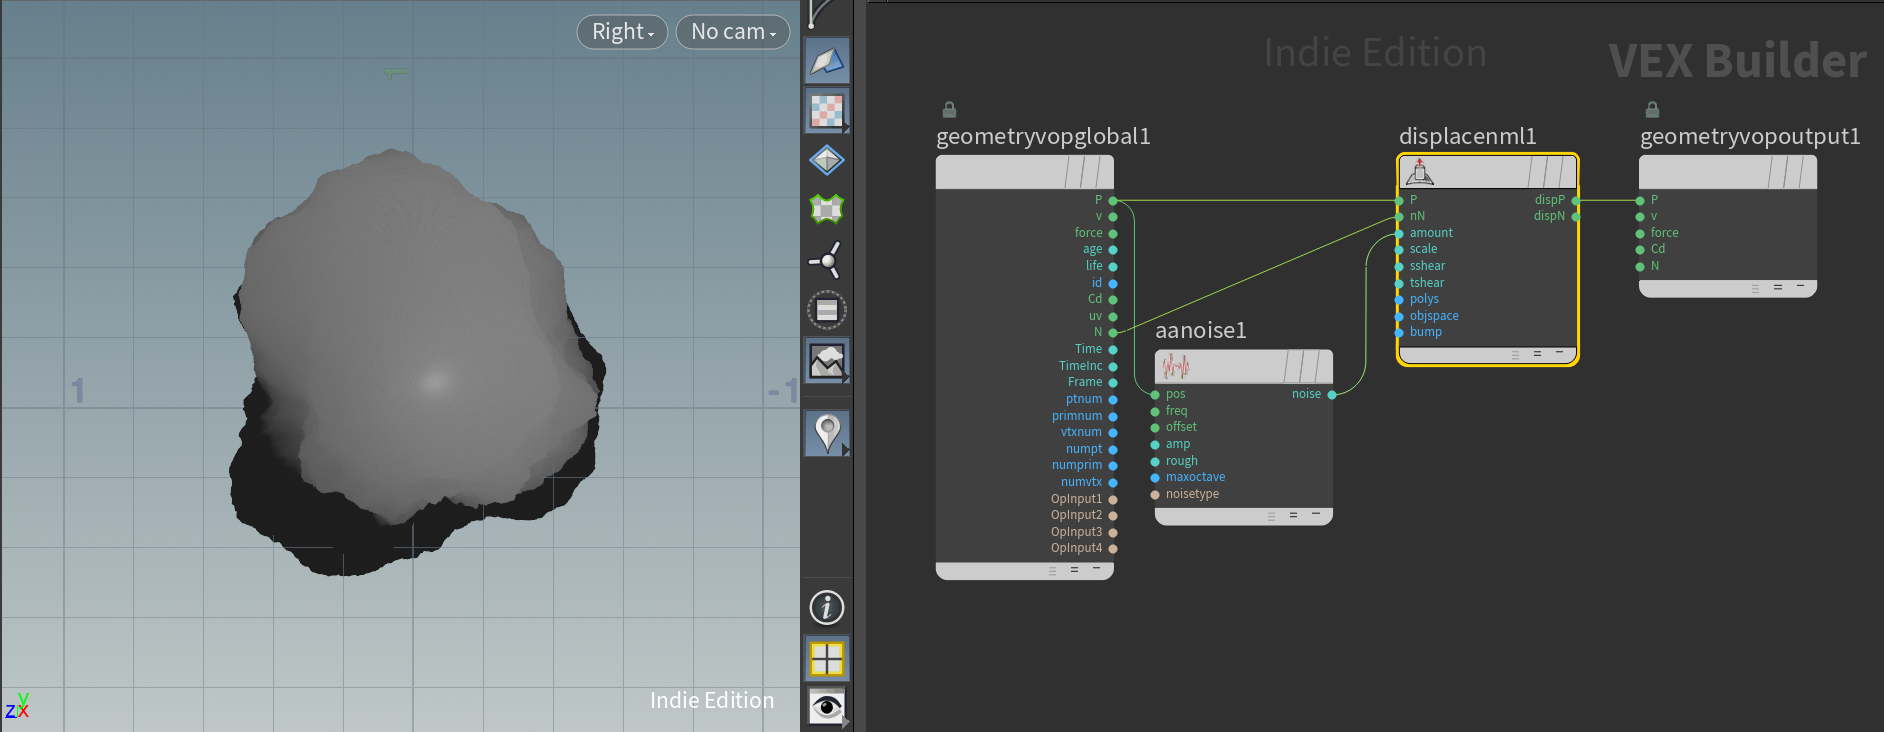
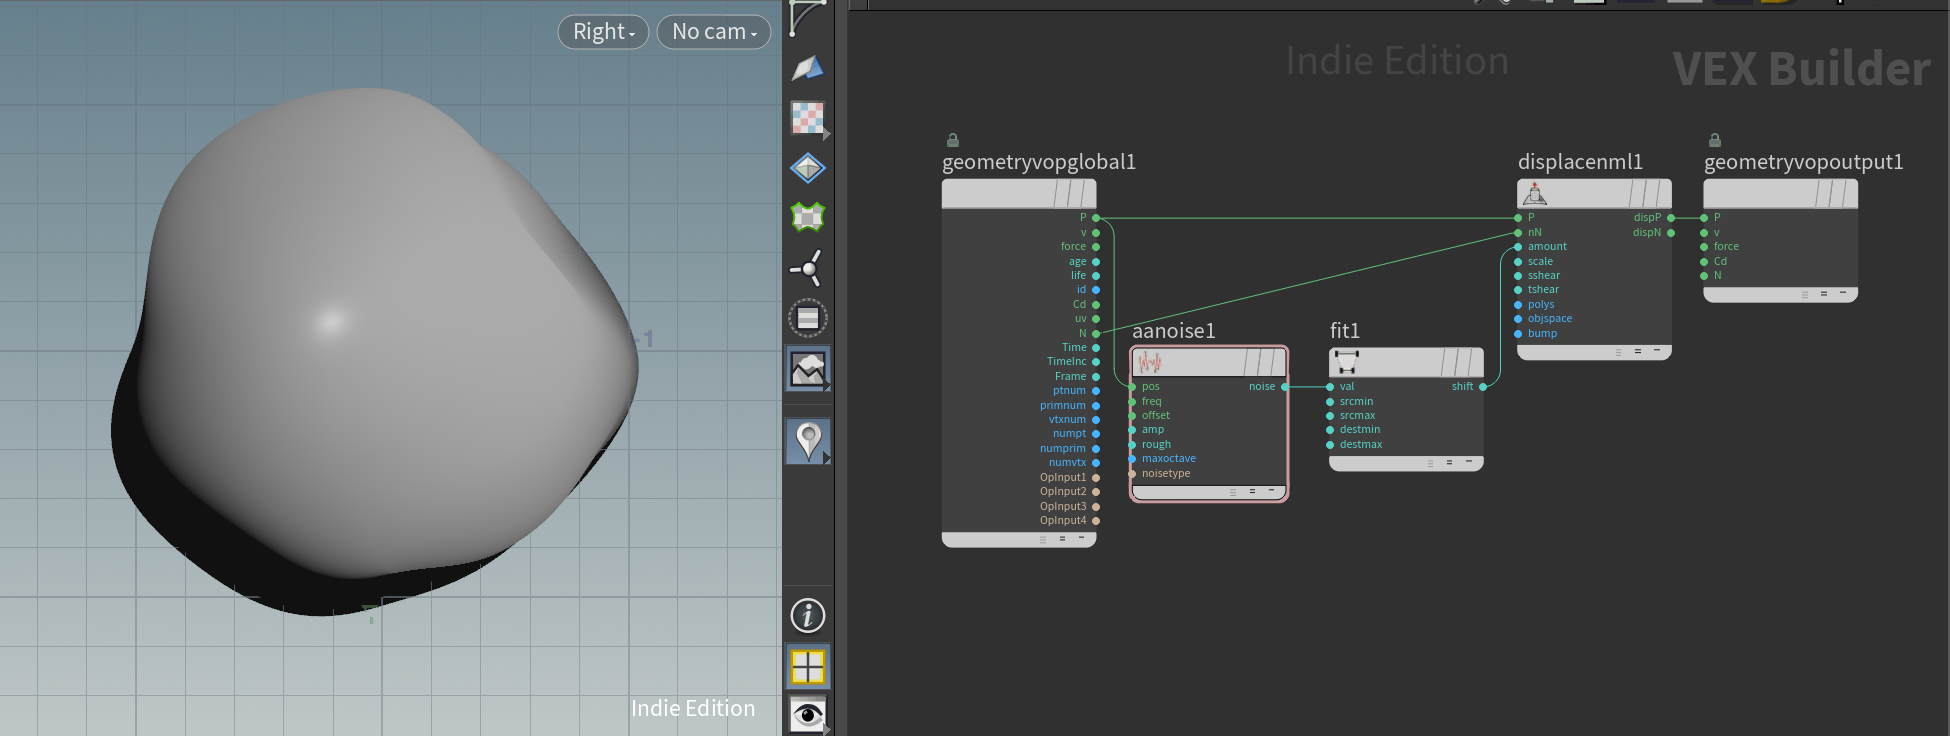
Update

diff --git a/houdini/tutorials/houdini-noise-displacement.md b/houdini/tutorials/houdini-noise-displacement.md
@@ -22,10 +22,7 @@
 2. Connect the `displacenml1 > dispP` output to the `geometryvopoutput1 > P` input
 3. (Now dragging the `displacenml1 > Displacement Amount` parameter should make the sphere larger, this is what we want to control via the noise)
 4. Add a `Anti-Aliased Noise`, and connect the `geometryvopglobal1 > p` output to the `aanoise1 > pos` input, and connect the `aanoise1 > noise` output to the `displacenml1 > amount` input.
-
-    ![Amount](assets/houdini-noise-displacement-amount.png)
-
 5. Under `aanoise1`, set `roughtness: 0` and `3D Frequency: 2 2 2`
 6. To map the noise output values from being between `-0.5--0.5` to `0--1`, to only be displacing *outwards*. Add a `Fit Range`, and `fit1`, set `Source Min` and `Source Max` to `-.5` and `.5`. Connect the `aanoise1 > noise` output to the `fit1 > val` input, connect the `fit1 > shift` output to the `displacenml1 > amount` input.
 
-### Ridges
+    ![Amount](assets/houdini-noise-displacement-amount.png)

diff --git a/houdini/houdini-editing.md b/houdini/houdini-editing.md
@@ -5,4 +5,5 @@
 
 ## Select Mode
 
+- `1`: Select objects
 - `2`: Select points
